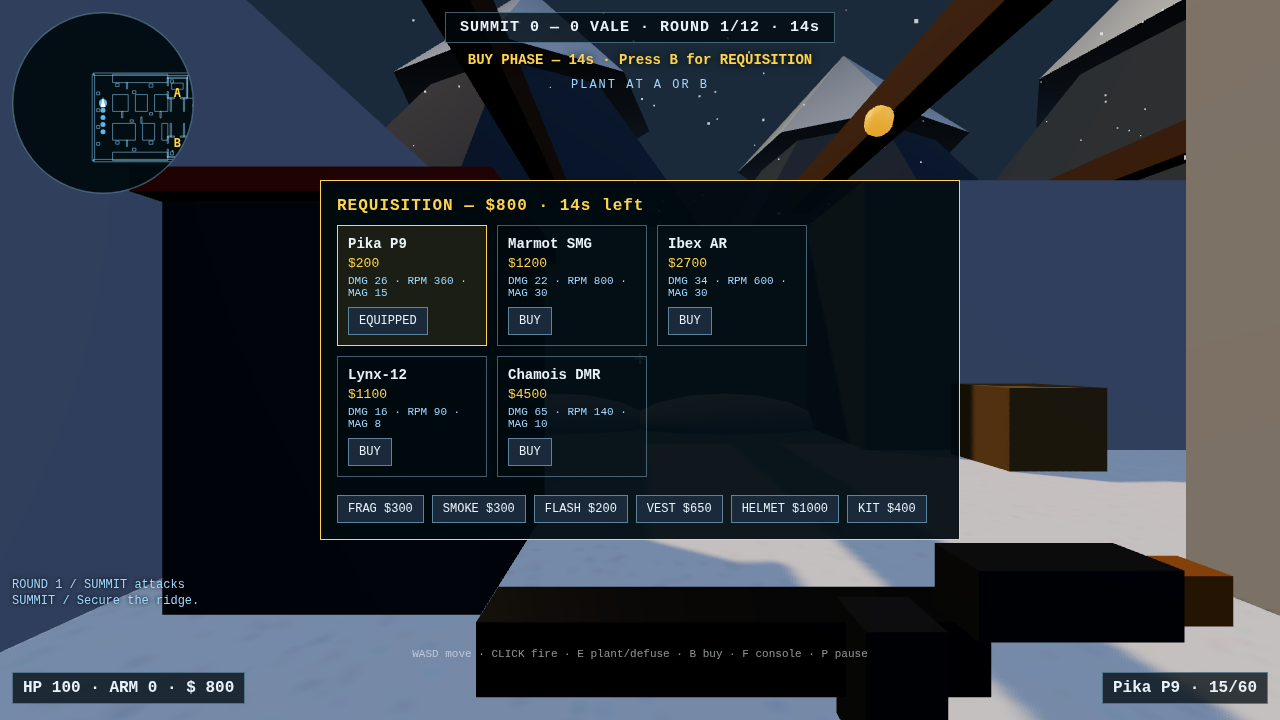
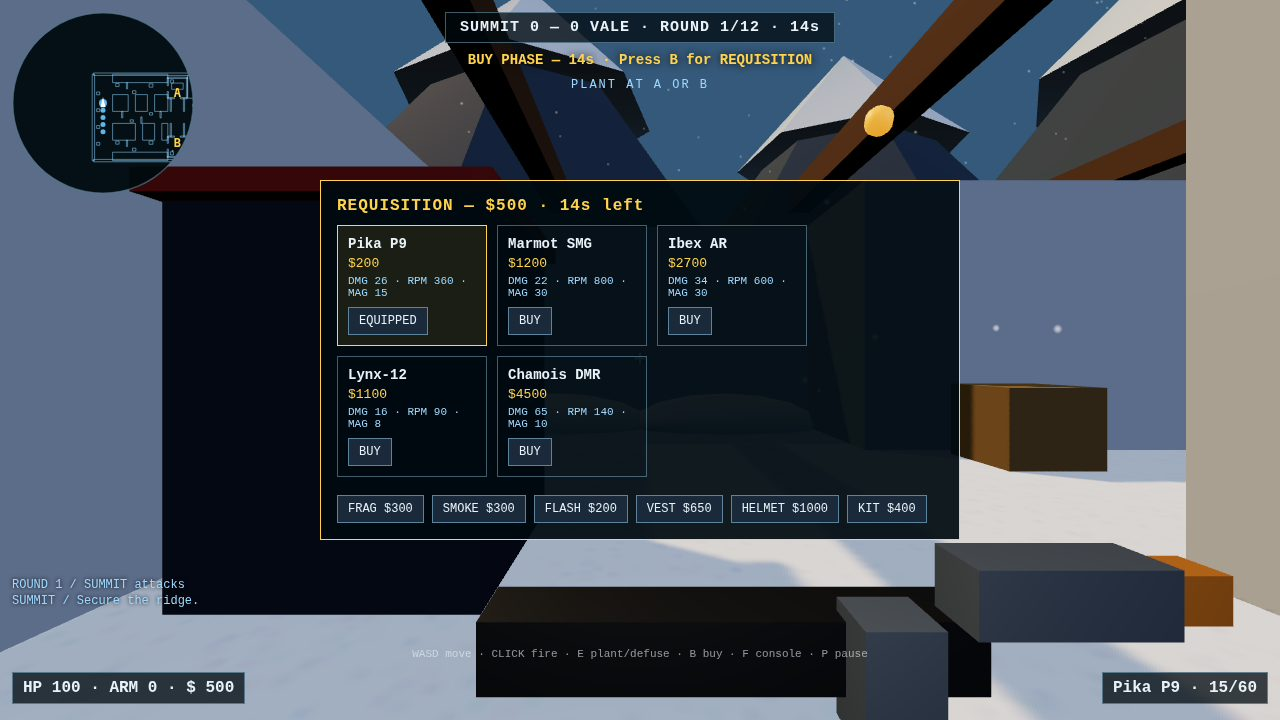
Visual pass: brighter scene, glowing team torsos, lit view-model, soft smoke, bomb model, name tags occluded by walls, A-long fight + site-entry plant staging

diff --git a/game/view.js b/game/view.js
@@ -29,6 +29,10 @@ export function view(s, prefs) {
 
   const scene = world();
   const camera = new THREE.PerspectiveCamera(prefs.fov, innerWidth / innerHeight, 0.05, 220);
+  // A small warm fill light rides with the camera so the view-model gun and
+  // nearby props are never pitch black.
+  const camLight = new THREE.PointLight(0xfff2dd, 0.9, 3, 1.5);
+  camera.add(camLight);
   const motion = viewMotion();
   let gunMesh = null;
   camera.add(gunMesh = weaponModel(0));
@@ -52,8 +56,25 @@ export function view(s, prefs) {
     scene.scene.add(line);
     tracers.push(line);
   }
-  const smokeMat = new THREE.SpriteMaterial({ color: 0xcfd8dc, transparent: true, opacity: 0.55, depthWrite: false });
   const smokeSprites = [];
+  // Soft radial blob texture so smoke reads as a cloud, not a white box.
+  const smokeCanvas = document.createElement('canvas');
+  smokeCanvas.width = smokeCanvas.height = 64;
+  const sctx = smokeCanvas.getContext('2d');
+  const sgrad = sctx?.createRadialGradient?.(32, 32, 2, 32, 32, 32);
+  let smokeMap = null;
+  if (sgrad && typeof sgrad.addColorStop === 'function') {
+    sgrad.addColorStop(0, 'rgba(255,255,255,0.9)');
+    sgrad.addColorStop(0.6, 'rgba(255,255,255,0.45)');
+    sgrad.addColorStop(1, 'rgba(255,255,255,0)');
+    sctx.fillStyle = sgrad;
+    sctx.fillRect(0, 0, 64, 64);
+    smokeMap = new THREE.CanvasTexture(smokeCanvas);
+  }
+  const smokeMat = new THREE.SpriteMaterial({
+    color: 0xcfd8dc, transparent: true, opacity: 0.55, depthWrite: false,
+    ...(smokeMap ? { map: smokeMap } : {}),
+  });
   for (let i = 0; i < 8; i++) {
     const sprite = new THREE.Sprite(smokeMat);
     sprite.scale.set(6, 6, 1);
@@ -61,27 +82,59 @@ export function view(s, prefs) {
     scene.scene.add(sprite);
     smokeSprites.push(sprite);
   }
+  // The planted charge: a dark case with a blinking amber light, visible
+  // only while s.bomb exists. The HUD alone used to be the only sign.
+  const bombCase = new THREE.Mesh(
+    new THREE.BoxGeometry(0.45, 0.28, 0.45),
+    new THREE.MeshStandardMaterial({ color: 0x22262b, roughness: 0.5, metalness: 0.6 }),
+  );
+  const bombLight = new THREE.Mesh(
+    new THREE.BoxGeometry(0.12, 0.06, 0.12),
+    new THREE.MeshStandardMaterial({ color: 0xff9a1a, emissive: 0xff9a1a, emissiveIntensity: 2 }),
+  );
+  bombLight.position.y = 0.17;
+  bombCase.add(bombLight);
+  bombCase.visible = false;
+  scene.scene.add(bombCase);
 
   // Deterministic screenshot staging: ?shot=start|play|end&seed=1 sets the
   // scene up for a capture. The 'start' pose applies immediately (menu
   // backdrop); 'play'/'end' apply once the round goes live, because
   // startRound resets every actor to their spawn.
+  // NOTE: the sim overwrites the player's yaw from input.yaw every tick
+  // (simulation.js: p.yaw = input.yaw), so staging must set BOTH — setting
+  // p.yaw alone is silently undone on the next tick.
   let staged = false;
-  function stageShot() {
+  // `inp` is the live input object (frame only). At view creation there is
+  // no input yet, so the start pose only sets p.yaw/pitch there and the
+  // first frame re-applies it with input.
+  function stageShot(inp) {
     if (!shotMode || staged) return;
     const p = s.actors[0];
+    const aim = (yaw, pitch) => {
+      p.yaw = yaw; p.pitch = pitch;
+      if (inp) { inp.yaw = yaw; inp.pitch = pitch; }
+    };
     if (shotMode === 'start') {
-      p.x = -14; p.z = 0; p.yaw = -Math.PI / 2; p.pitch = 0;
+      p.x = -14; p.z = 0; aim(-Math.PI / 2, 0);
       staged = true;
     } else if (shotMode === 'play' && s.phase === 'live') {
-      p.x = 4; p.z = -11; p.yaw = -Math.PI / 2; p.pitch = 0.05;
-      s.actors[5].x = 10; s.actors[5].z = -12; s.actors[5].alive = true;
-      s.actors[6].x = 8; s.actors[6].z = -9; s.actors[6].alive = true;
-      s.effects.push({ x: p.x, z: p.z, y: 1.6, ex: 10, ez: -12, ey: 1.5, life: 5, team: 0, shooter: 0 });
-      s.smokes.push({ x: 8, z: -11, life: 15 });
+      // A-long, looking east toward site A: a clean open sightline (the Mid
+      // baffles block the equivalent Mid shot), enemies in the open ahead.
+      p.x = -6; p.z = -11; aim(-Math.PI / 2, 0);
+      const spots = [[0, -11], [2, -10], [4, -12]];
+      for (let i = 0; i < 3; i++) {
+        const e = s.actors[5 + i];
+        e.x = spots[i][0]; e.z = spots[i][1]; e.alive = true;
+      }
+      s.effects.push({ x: p.x, z: p.z, y: 1.6, ex: 0, ez: -11, ey: 1.5, life: 5, team: 0, shooter: 0 });
+      s.smokes.push({ x: 2, z: -11.5, life: 15 });
       staged = true;
     } else if (shotMode === 'end' && s.phase === 'live') {
-      p.x = 10; p.z = -11; p.yaw = Math.PI / 2; p.pitch = 0;
+      // Outside site A, looking in through the west entry: the planted
+      // charge, the red gondola cabin and the site signage all in frame
+      // (standing inside puts the camera under the hall canopy).
+      p.x = 6; p.z = -12; aim(-Math.PI / 2, 0);
       s.bomb = { x: 13, z: -10, fuse: 30 };
       staged = true;
     }
@@ -170,7 +223,7 @@ export function view(s, prefs) {
   // One frame: advance the camera + weapon feel, draw actors and effects,
   // refresh the HUD, render.
   function frame(input, dt) {
-    stageShot();
+    stageShot(input);
     const p = s.actors[0];
     inputAim = input.aim;
     const feel = motion(p, input, dt);
@@ -229,6 +282,14 @@ export function view(s, prefs) {
       sprite.material.opacity = Math.min(0.55, c.life / 15 * 0.55);
     }
     for (; si < smokeSprites.length; si++) smokeSprites[si].visible = false;
+    // Planted charge model + blinking light.
+    if (s.bomb) {
+      bombCase.visible = true;
+      bombCase.position.set(s.bomb.x, 0.14, s.bomb.z);
+      bombLight.material.emissiveIntensity = (Math.sin(s.t * 6) > 0) ? 2.5 : 0.3;
+    } else {
+      bombCase.visible = false;
+    }
 
     scene.update(dt, prefs.snow);
     updateHud();

diff --git a/game/world.js b/game/world.js
@@ -24,10 +24,10 @@ export function texture(name, size = 256) {
       ctx.fillRect(Math.random() * size, Math.random() * size, 2, 2);
     }
   } else {
-    ctx.fillStyle = '#7a7d80';
+    ctx.fillStyle = '#9aa0a3';
     ctx.fillRect(0, 0, size, size);
     for (let i = 0; i < 1200; i++) {
-      ctx.fillStyle = `rgba(0, 0, 0, ${Math.random() * 0.15})`;
+      ctx.fillStyle = `rgba(255, 255, 255, ${Math.random() * 0.12})`;
       ctx.fillRect(Math.random() * size, Math.random() * size, 3, 3);
     }
   }
@@ -40,12 +40,12 @@ export function texture(name, size = 256) {
 // the snow particle system, and a per-frame updater.
 export function world() {
   const scene = new THREE.Scene();
-  scene.background = new THREE.Color(0x1a2a3a);
-  scene.fog = new THREE.Fog(0x1a2a3a, 30, 90);
+  scene.background = new THREE.Color(0x35597a);
+  scene.fog = new THREE.Fog(0x35597a, 40, 110);
 
-  const hemi = new THREE.HemisphereLight(0xbfd9ff, 0x2a2a30, 0.9);
+  const hemi = new THREE.HemisphereLight(0xd6e8ff, 0x3a3f45, 1.3);
   scene.add(hemi);
-  const sun = new THREE.DirectionalLight(0xffd9a0, 1.6);
+  const sun = new THREE.DirectionalLight(0xffd9a0, 2.2);
   sun.position.set(-30, 40, -20);
   sun.castShadow = true;
   sun.shadow.mapSize.set(1024, 1024);
@@ -54,7 +54,7 @@ export function world() {
   sun.shadow.camera.top = 30;
   sun.shadow.camera.bottom = -30;
   scene.add(sun);
-  const fill = new THREE.DirectionalLight(0x88aaff, 0.4);
+  const fill = new THREE.DirectionalLight(0x88aaff, 0.6);
   fill.position.set(25, 15, 25);
   scene.add(fill);
 
@@ -100,8 +100,25 @@ export function world() {
   }
   const snowGeo = new THREE.BufferGeometry();
   snowGeo.setAttribute('position', new THREE.BufferAttribute(positions, 3));
+  // Soft round flake texture so near-camera flakes read as snow, not
+  // squares. Built defensively: if the 2D canvas API is unavailable or
+  // incomplete (headless stubs), the snow falls back to plain points.
+  let flakeMap = null;
+  const flakeCanvas = document.createElement('canvas');
+  flakeCanvas.width = flakeCanvas.height = 32;
+  const fctx = flakeCanvas.getContext('2d');
+  const grad = fctx?.createRadialGradient?.(16, 16, 0, 16, 16, 16);
+  if (grad && typeof grad.addColorStop === 'function') {
+    grad.addColorStop(0, 'rgba(255,255,255,1)');
+    grad.addColorStop(0.6, 'rgba(255,255,255,0.6)');
+    grad.addColorStop(1, 'rgba(255,255,255,0)');
+    fctx.fillStyle = grad;
+    fctx.fillRect(0, 0, 32, 32);
+    flakeMap = new THREE.CanvasTexture(flakeCanvas);
+  }
   const snow = new THREE.Points(snowGeo, new THREE.PointsMaterial({
-    color: 0xffffff, size: 0.08, transparent: true, opacity: 0.85,
+    color: 0xffffff, size: 0.12, transparent: true, opacity: 0.85,
+    ...(flakeMap ? { map: flakeMap } : {}), depthWrite: false,
   }));
   scene.add(snow);
 

diff --git a/game/actors.js b/game/actors.js
@@ -5,14 +5,20 @@
 import * as THREE from 'three';
 import { weapons } from './state.js';
 
-const SKIN = [0xe8c39a, 0xc9a06a, 0x8a6a44, 0x5a4a3a, 0x6b5a44];
-const CLOTH = [0x3a6b8a, 0x2f5d7a, 0x8a4a3a, 0x4a5a3a, 0x5a4a6b];
+const SKIN = [0xf0cfa8, 0xd8b47e, 0xa8825a, 0x7a6248, 0x8a7458];
+const CLOTH = [0x5a8ab5, 0x4a7a9e, 0xb06048, 0x6a7a4a, 0x7a6490];
 
 // One box with a standard material, positioned inside a group.
-function box(parent, w, h, d, x, y, z, color, roughness = 0.8) {
+// `glow` (0..1) adds an emissive lift in the box's own colour — used for
+// team torsos so soldiers read at a glance in blue hour.
+function box(parent, w, h, d, x, y, z, color, roughness = 0.8, glow = 0) {
   const mesh = new THREE.Mesh(
     new THREE.BoxGeometry(w, h, d),
-    new THREE.MeshStandardMaterial({ color, roughness, metalness: 0.05 }),
+    new THREE.MeshStandardMaterial({
+      color, roughness, metalness: 0.05,
+      emissive: glow ? new THREE.Color(color) : 0x000000,
+      emissiveIntensity: glow,
+    }),
   );
   mesh.position.set(x, y, z);
   mesh.castShadow = true;
@@ -48,11 +54,12 @@ export function preloadActors(actors) {
     if (cache.has(a.id)) continue;
     const group = new THREE.Group();
     group.userData.artStyle = 'original-articulated-voxel';
-    const teamColor = a.team === 0 ? 0x4a8ab5 : 0xb55a4a;
+    // Bright team colours so soldiers read instantly against the blue hour.
+    const teamColor = a.team === 0 ? 0x2fb3ff : 0xff7a45;
     const cloth = CLOTH[a.id % CLOTH.length];
     const skin = SKIN[a.id % SKIN.length];
     const head = box(group, 0.32, 0.3, 0.32, 0, 1.62, 0, skin);
-    const torso = box(group, 0.52, 0.72, 0.3, 0, 1.05, 0, teamColor);
+    const torso = box(group, 0.52, 0.72, 0.3, 0, 1.05, 0, teamColor, 0.65, 0.5);
     const shoulders = box(group, 0.56, 0.12, 0.34, 0, 1.32, 0, cloth); // shoulders
     const armL = box(group, 0.14, 0.55, 0.14, -0.34, 1.1, 0, cloth);
     const armR = box(group, 0.14, 0.55, 0.14, 0.34, 1.1, 0, cloth);
@@ -69,7 +76,9 @@ export function preloadActors(actors) {
     ctx.fillStyle = a.team === 0 ? '#9fd8ff' : '#ffb0a0';
     ctx.fillText(a.name, 128, 42);
     const sprite = new THREE.Sprite(new THREE.SpriteMaterial({
-      map: new THREE.CanvasTexture(canvas), transparent: true, depthTest: false,
+      // depthTest on: tags are occluded by walls, so they never float over
+      // solid geometry (and never give away an enemy behind cover).
+      map: new THREE.CanvasTexture(canvas), transparent: true, depthTest: true,
     }));
     sprite.scale.set(1.6, 0.4, 1);
     sprite.position.set(0, 2.1, 0);

diff --git a/game/models.js b/game/models.js
@@ -15,10 +15,10 @@ const PART = {
 
 // Build the view model for weapon index w (0..4). group is positioned by
 // view.js each frame (ADS, recoil, reload sway).
-export function weaponModel(w, color = 0x2c3138) {
+export function weaponModel(w, color = 0x55606c) {
   const group = new THREE.Group();
   const body = new THREE.MeshStandardMaterial({ color, roughness: 0.6, metalness: 0.35 });
-  const dark = new THREE.MeshStandardMaterial({ color: 0x16191d, roughness: 0.7, metalness: 0.25 });
+  const dark = new THREE.MeshStandardMaterial({ color: 0x2a2f36, roughness: 0.7, metalness: 0.25 });
   const accent = new THREE.MeshStandardMaterial({ color: 0xc9802a, roughness: 0.5, metalness: 0.4 });
   const add = (part, material = body) => {
     const [w, h, d, x, y, z] = part;
